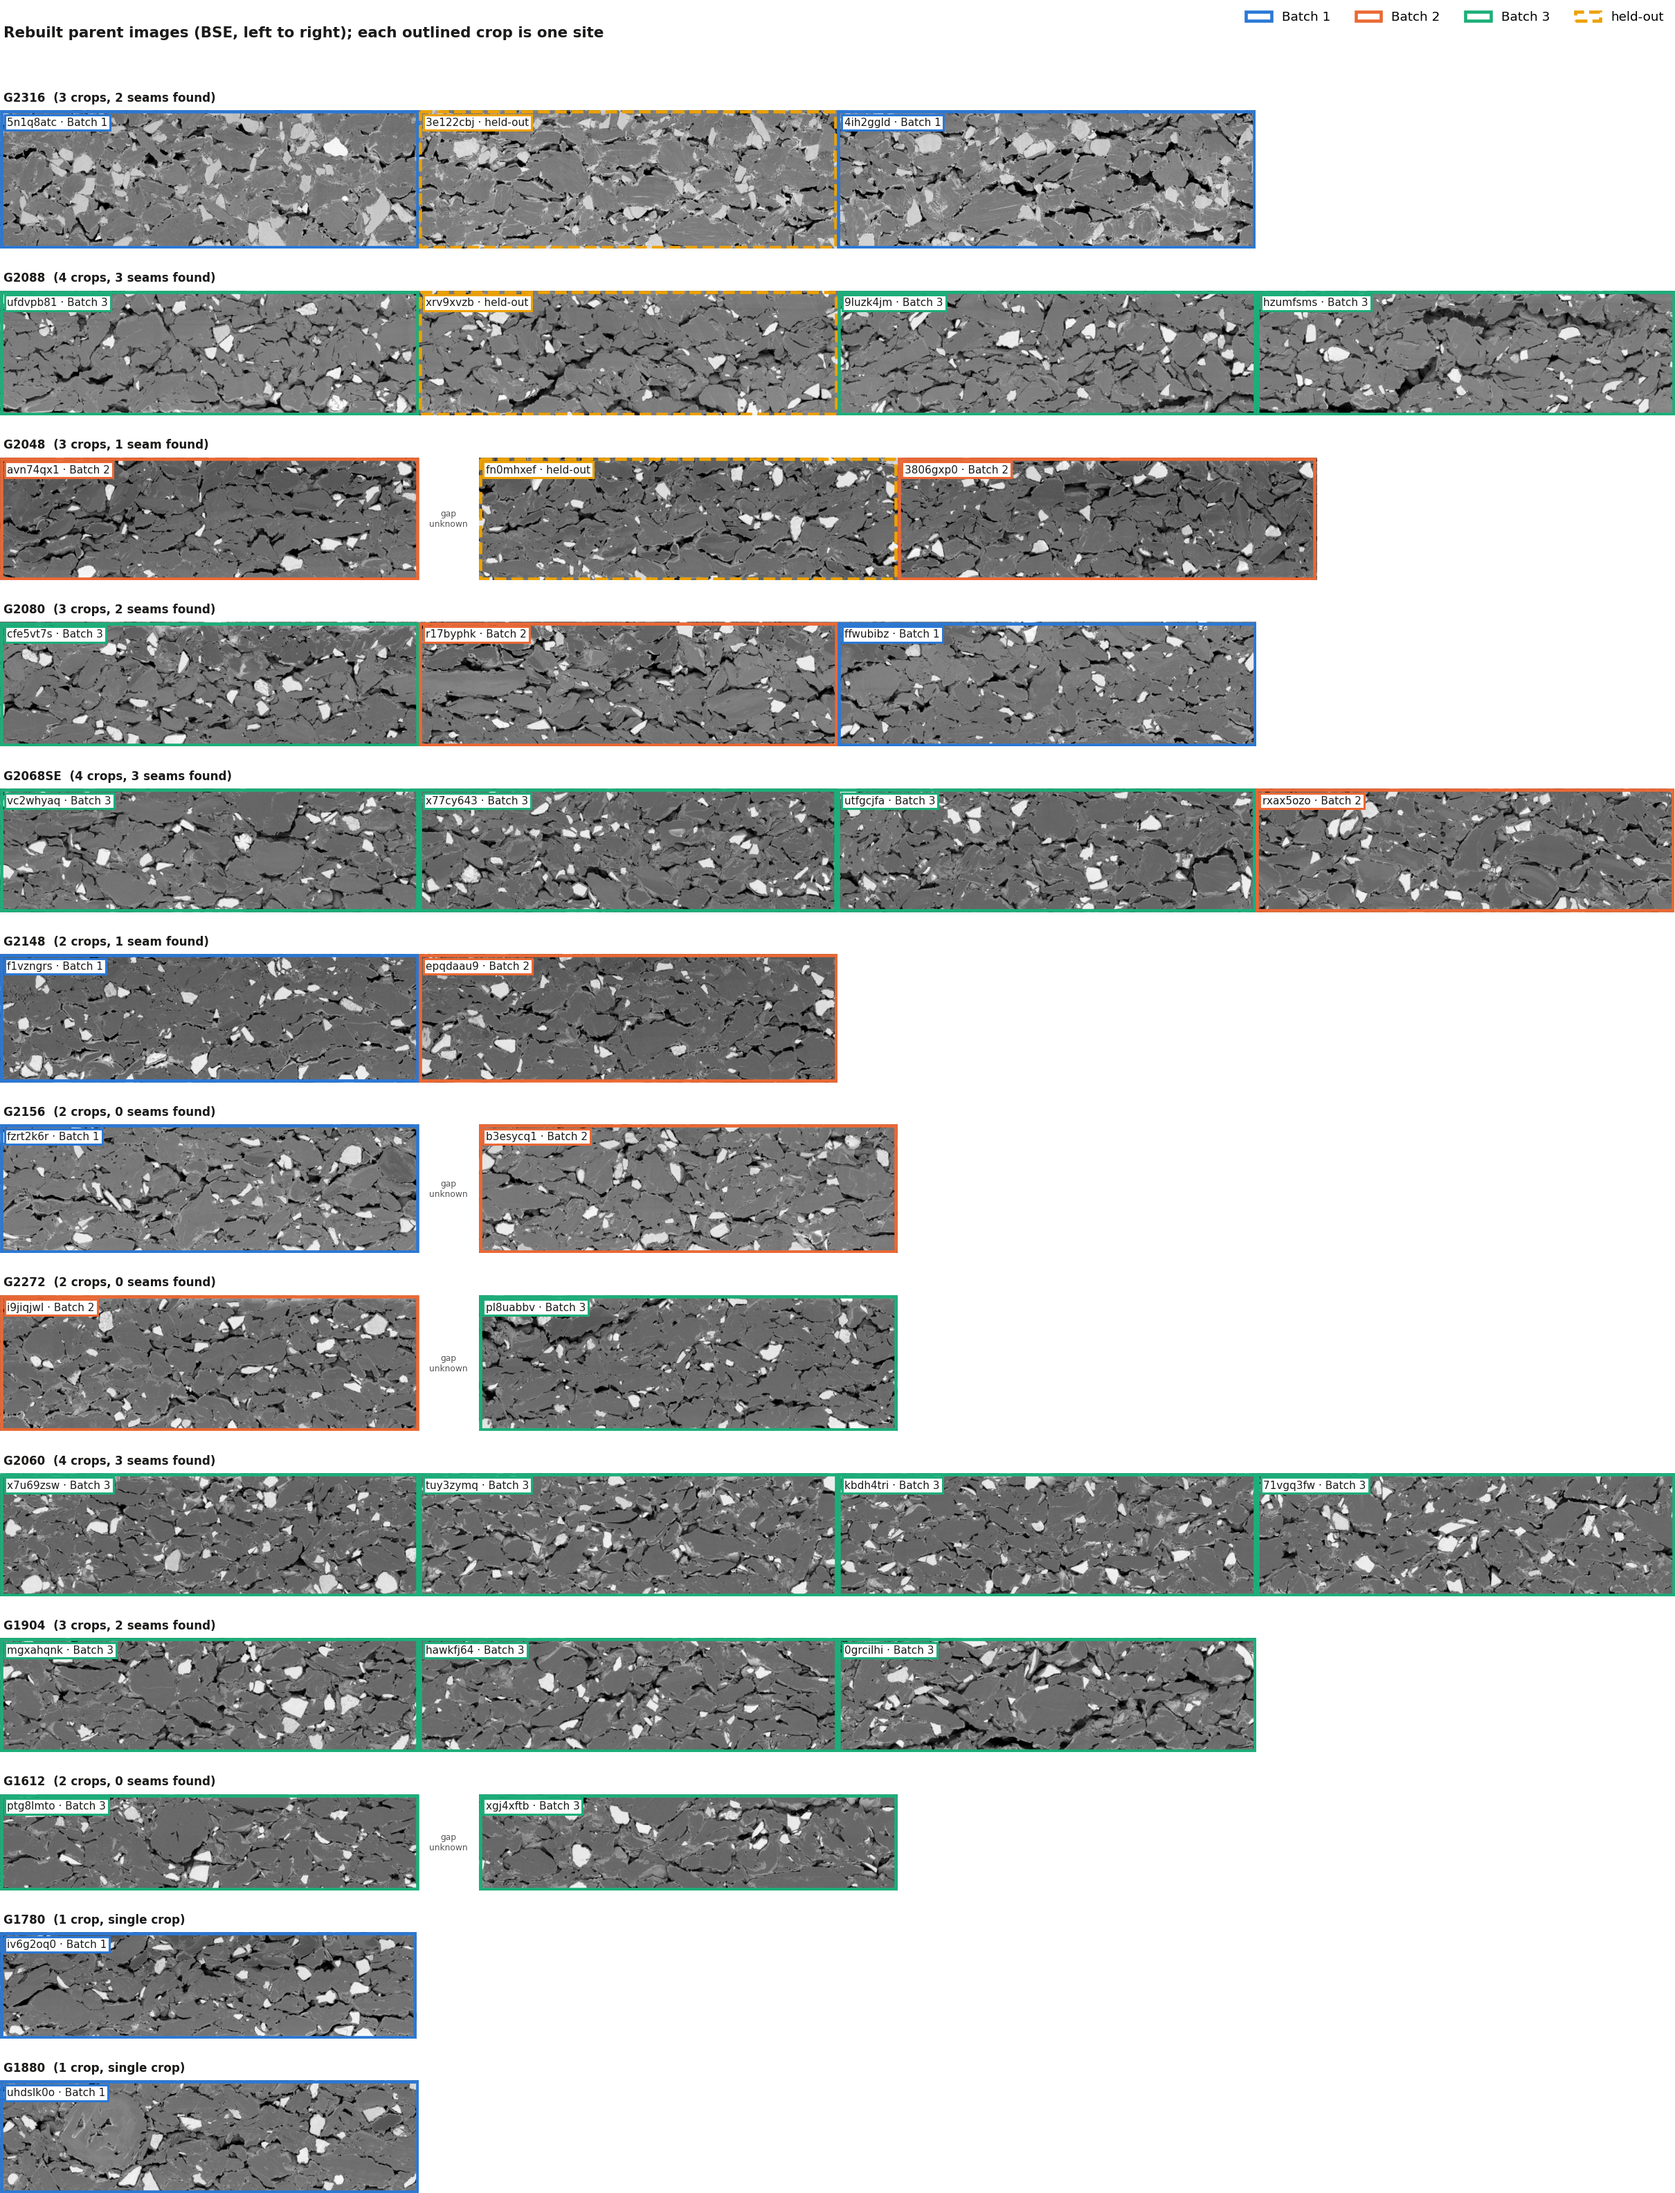
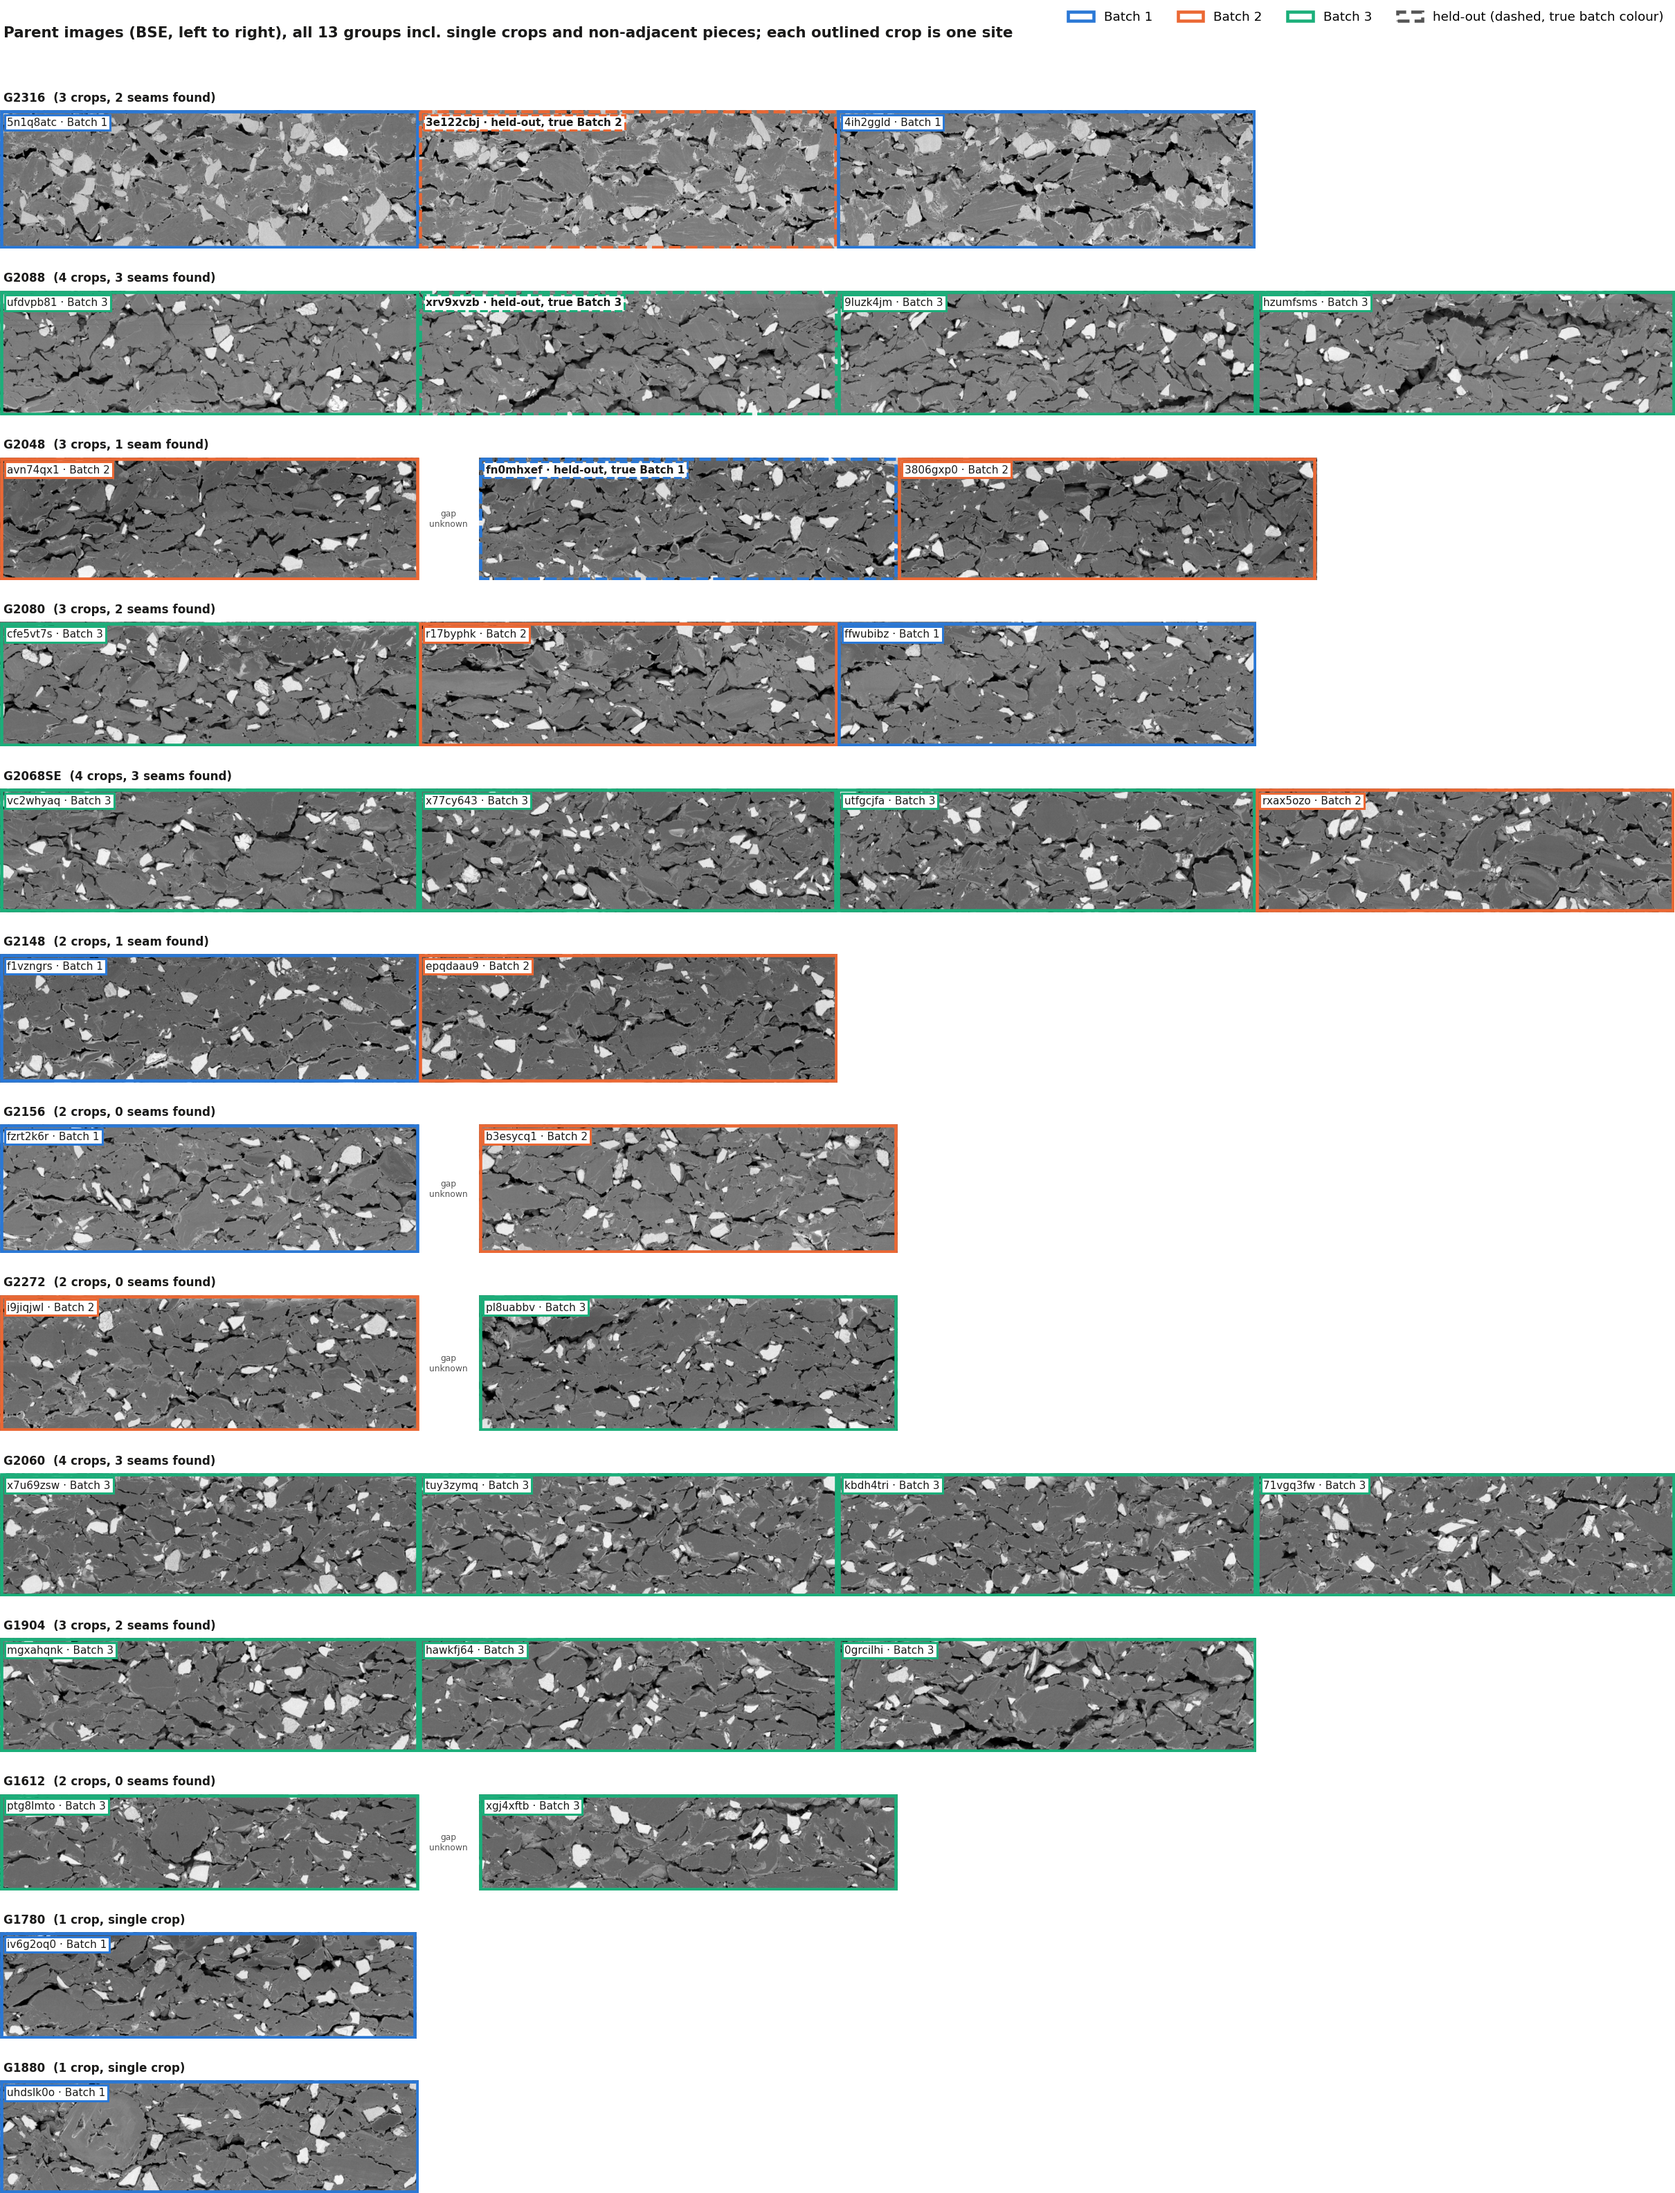
viz(stitching): all 13 parent groups; held-out crops dashed in organiser-released true batch colour

diff --git a/scripts/plot_parents.py b/scripts/plot_parents.py
@@ -30,8 +30,10 @@ OUT = ROOT / "outputs/stitching/parents_annotated.png"
 UM_PER_PX = 0.05 * 4          # half-res (50 nm/px) further downsampled 4x for display
 CHAIN_GAP_UM = 25.0
 # Categorical slots 1-4 of the dataviz reference palette (validated: CVD dE 9.1, normal 22.9)
-COLORS = {"Batch_1": "#2a78d6", "Batch_2": "#eb6834", "Batch_3": "#1baf7a", "Batch_heldout": "#eda100"}
-LABELS = {"Batch_1": "Batch 1", "Batch_2": "Batch 2", "Batch_3": "Batch 3", "Batch_heldout": "held-out"}
+COLORS = {"Batch_1": "#2a78d6", "Batch_2": "#eb6834", "Batch_3": "#1baf7a"}
+LABELS = {"Batch_1": "Batch 1", "Batch_2": "Batch 2", "Batch_3": "Batch 3"}
+# Organiser-released ground truth for the held-out sites (2026-10-04); drawn dashed in the true colour.
+HELDOUT_TRUTH = {"3e122cbj": "Batch_2", "fn0mhxef": "Batch_1", "xrv9xvzb": "Batch_3"}
 # Held-out parents first, then parents split across batches, then single-batch parents.
 ORDER = ["G2316", "G2088", "G2048", "G2080", "G2068SE", "G2148", "G2156", "G2272",
          "G2060", "G1904", "G1612", "G1780", "G1880"]
@@ -86,10 +88,14 @@ def main() -> None:
         for s, b, x0, w, hh, img in items:
             ax.imshow(img, cmap="gray", vmin=0, vmax=1, extent=(x0, x0 + w, hh, 0),
                       interpolation="bilinear")
+            held = b == "Batch_heldout"
+            true_b = HELDOUT_TRUTH[s] if held else b
+            label = f"{s} · held-out, true {LABELS[true_b]}" if held else f"{s} · {LABELS[b]}"
             ax.add_patch(Rectangle((x0 + 0.6, 0.6), w - 1.2, hh - 1.2, fill=False,
-                                   ec=COLORS[b], lw=3.0, ls="--" if b == "Batch_heldout" else "-"))
-            ax.text(x0 + 3, 3, f"{s} · {LABELS[b]}", va="top", ha="left", fontsize=10,
-                    color="#1a1a19", bbox=dict(fc="white", ec=COLORS[b], lw=2.0, pad=2.5))
+                                   ec=COLORS[true_b], lw=3.0, ls="--" if held else "-"))
+            ax.text(x0 + 3, 3, label, va="top", ha="left", fontsize=10, color="#1a1a19",
+                    fontweight="bold" if held else "normal",
+                    bbox=dict(fc="white", ec=COLORS[true_b], lw=2.0, pad=2.5, ls="--" if held else "-"))
         for g0, g1 in gaps:
             ax.text((g0 + g1) / 2, h / 2, "gap\nunknown", ha="center", va="center",
                     fontsize=8, color="#555555")
@@ -98,11 +104,11 @@ def main() -> None:
         fig.text(0.002, (y_top + ax_h + 0.08) / fig_h, f"{p}  ({n} crop{'s' if n != 1 else ''}, {seam_txt})",
                  fontsize=11, fontweight="bold", color="#1a1a19", va="bottom")
 
-    handles = [Patch(fc="white", ec=COLORS[b], lw=3, ls="--" if b == "Batch_heldout" else "-",
-                     label=LABELS[b]) for b in COLORS]
+    handles = [Patch(fc="white", ec=COLORS[b], lw=3, label=LABELS[b]) for b in COLORS]
+    handles.append(Patch(fc="white", ec="#555555", lw=3, ls="--", label="held-out (dashed, true batch colour)"))
     fig.legend(handles=handles, loc="upper right", ncol=4, frameon=False, fontsize=12)
     fig.text(0.002, 1 - 0.35 / fig_h,
-             "Rebuilt parent images (BSE, left to right); each outlined crop is one site",
+             "Parent images (BSE, left to right), all 13 groups incl. single crops and non-adjacent pieces; each outlined crop is one site",
              fontsize=14, fontweight="bold", color="#1a1a19", va="top")
     fig.savefig(OUT, dpi=110, facecolor="white")
     print(f"wrote {OUT}")
